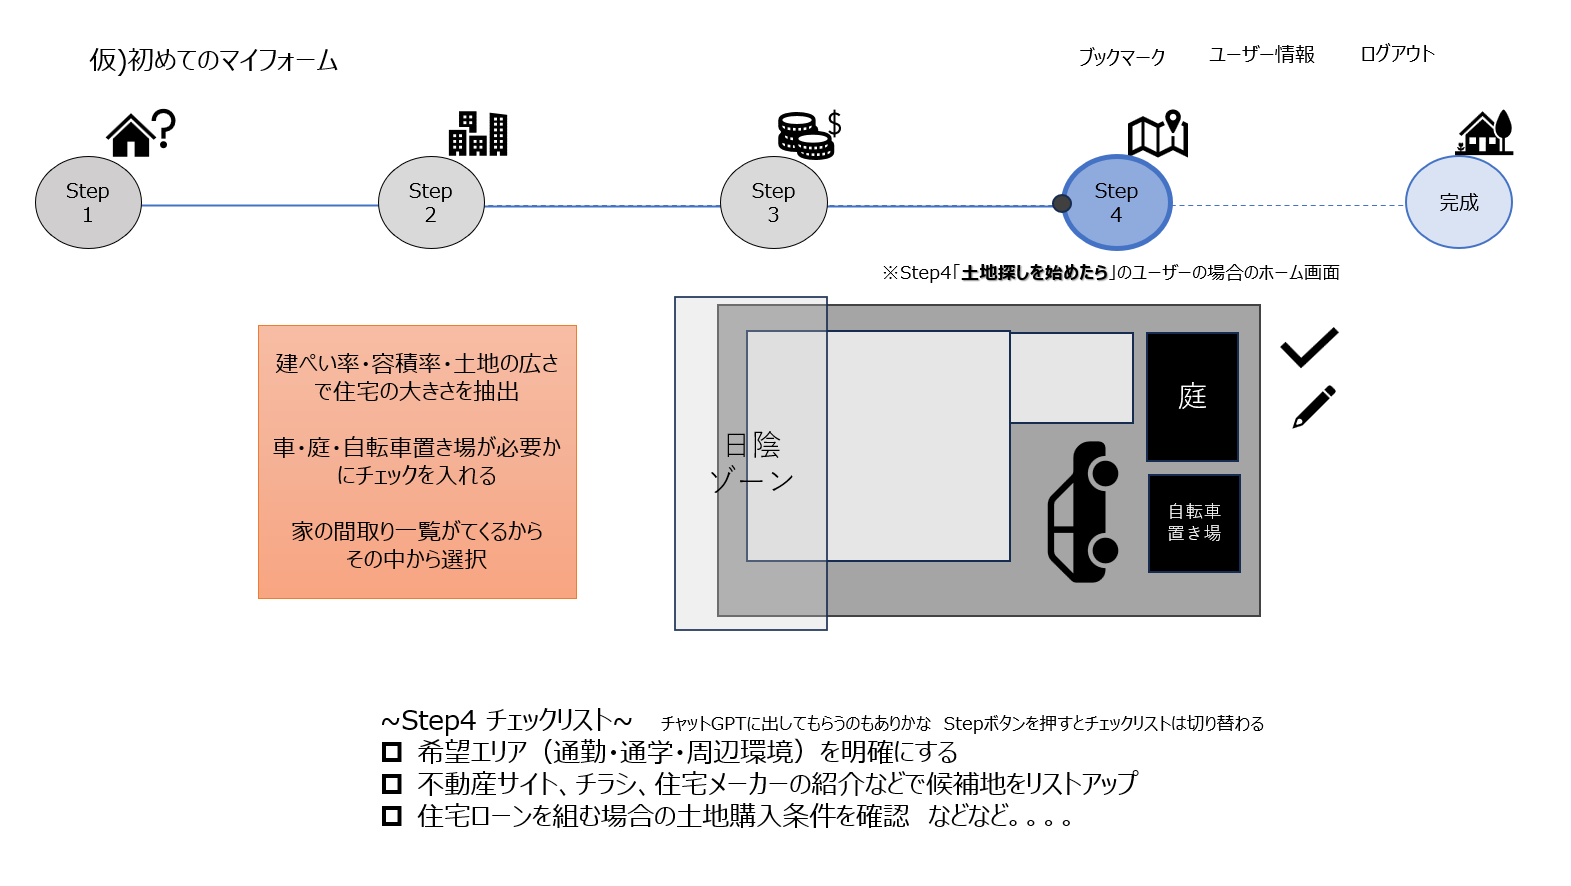
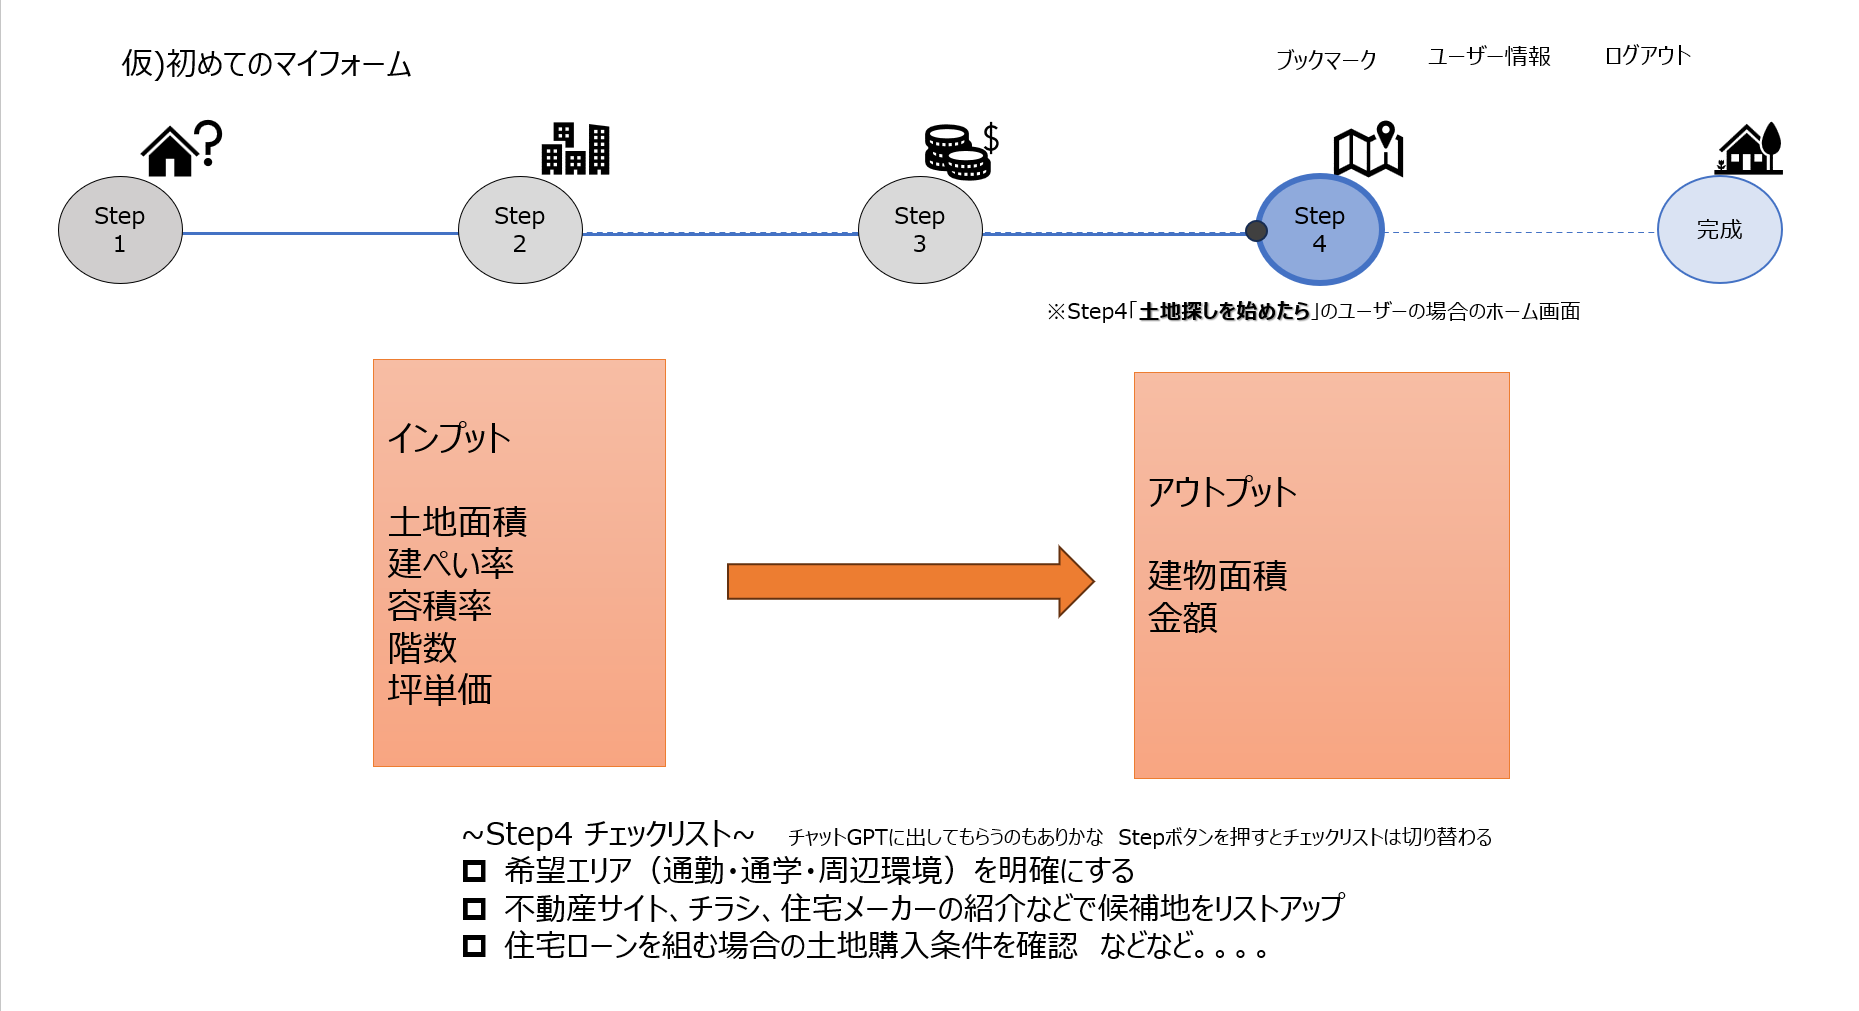
focusの説明を変更

diff --git a/docs/focus.md b/docs/focus.md
@@ -1,4 +1,5 @@
 # オリジナルプロダクトのテーマ
+
 **OneHouse.**  
 ～住宅購入を考え始めた人のためのサポートアプリ～
 
@@ -11,21 +12,21 @@
 → そんな悩みを抱えている人への、“最初の道しるべ”となるアプリです。
 
 ### コンセプト
+
 “住宅購入の第一歩”に迷っている初心者 に向けて、
 基礎知識の整理、計画のサポート、土地探しの記録や住宅メーカーの比較をまとめて行えるアプリです。  
-マイホームは「一生に一度の大きな買い物」と言われますが、実際には3回建てないと理想の家は建てられないとも言われています。
+マイホームは「一生に一度の大きな買い物」と言われますが、実際には 3 回建てないと理想の家は建てられないとも言われています。
 だからこそ、最初の一歩を正しく踏み出すことが大切です。
 このアプリでは、その“最初の一歩”を後押しし、家づくりのイメージを整理しながら住宅購入が安心して進められるようにサポートします。
 
-
 ### 想定ユーザー（対象者）
 
-- これから家を建てたいと思い始めた人  
-- 情報収集を始めたけれど、流れがよくわからない人  
+- これから家を建てたいと思い始めた人
+- 情報収集を始めたけれど、流れがよくわからない人
 - 住宅メーカーや工務店の見学を始めたばかりの人  
-→ つまり、「検討開始～土地購入まで」の 赤枠の段階 の人たちを対象にします。  
+  → つまり、「検討開始～土地購入まで」の 赤枠の段階 の人たちを対象にします。
 
-※今回限定した理由は住宅購入までとなると、各メーカーによって進め方や住宅内装の項目が異なるため。     
+※今回限定した理由は住宅購入までとなると、各メーカーによって進め方や住宅内装の項目が異なるため。  
 また建売での購入やマンション購入者は対象としていません。  
 あくまで住宅を住宅メーカーと建てることを検討している方に向けた内容となります。
 
@@ -33,48 +34,60 @@
 
 ### アプリでできること（機能イメージ）
 
-<img src="images/image-1.png" alt="" width="700">
+<img src="images/image-2.png" alt="" width="700">
 
-- ホーム画面    
- **1.「土地購入までの流れ」を初心者向けにフェーズごとにわかりやすく提示**
+| フェーズ | チェックリストの内容 | フェーズ Up 項目                         |
+| -------- | -------------------- | ---------------------------------------- |
+| Step1    | 住宅購入について知る | ☑ 住宅購入の意思が固まった               |
+| Step2    | 住宅メーカを探す     | ☑ 住宅メーカが決まった                   |
+| Step3    | 資金計画をする       | ☑ 住宅ローン・諸経費・契約金の概算が出た |
+| Step4    | 土地を購入する       | ☑ 土地を購入した                         |
+|          | 契約完了             | ☑ 住宅メーカーと本契約をした             |
+| Step5    | 住宅契約完了！       | 引き続き計画的にしていこう！             |
+
+- ホーム画面  
+  **1.「土地購入までの流れ」を初心者向けにフェーズごとにわかりやすく提示**
 
   ※あくまで一般的にこれが必要になりますよレベルフェーズが常に表示される  
-  進捗を更新するとホーム画面でも更新される  
-  細かくフェーズを決めるのではなく、申込書を出したら・契約を締結したら、などの大きな節目でフェーズ変更となる
+   進捗を更新するとホーム画面でも更新される  
+   細かくフェーズを決めるのではなく、  
+   申込書を出したら・契約を締結したら、などの大きな節目でフェーズ変更となる
 
-  **2. 土地購入までのチェックリスト**  
-  必要な準備・確認事項を見える化（例：土地探し、資金計画、住宅ローン事前審査など）   
-  →これまでのまとめサイトやアプリだと情報が古い、日々更新される内容であってほしい  
-  ※フェーズごとに分けて提示
-
-- *P2:自分だけのライフプラン表  
-  頭金・ローン・諸費用の目安をシミュレーション付きで学べる  
-  自分だけのライフプランイメージ表の作成
- <img src="images/image-4.png" alt="" width="800">
+  **2. フェーズごとのチェックリスト**  
+   必要な準備・確認事項を見える化（例：土地探し、資金計画、住宅ローン事前審査など）  
+   → これまでのまとめサイトやアプリだと情報が古い、日々更新される内容であってほしい  
+   ※フェーズごとに分けて提示
 
 - P1:メーカー訪問記録  
-  住宅展示場や工務店訪問の見積もり・写真・メモの記録
+  住宅展示場や工務店訪問の見積もり・メモの記録
   <img src="images/image-3.png" alt="" width="800">
-  
-- *P3：土地と家のイメージボード (土地訪問時の間取りシミレーション)  
-  訪問した土地の形・広さを入力して、建ぺい率と容積率・駐車場や庭を入れると家の形を提案してくれる
-<img src="images/image-5.png" alt="" width="800">
 
-> [!TIP]
-<span style="color:red;">**機能 優先度管理**</span>
+- \*P2:自分だけの住宅ローンシミレーション  
+   頭金・ローン・諸費用の目安をシミュレーション付きで学べる  
+   自分だけのライフプランイメージ表の作成
+  <img src="images/image-4.png" alt="" width="800">
 
-優先度（P0～P3）
+- \*P3：土地と家のイメージボード (土地訪問時の間取りシミレーション)  
+   訪問した土地面積を入力して、  
+   建ぺい率と容積率・階数、坪単価を入れると建物面積と金額を教えてくれる
+  <img src="images/image-5.png" alt="" width="800">
+
+> [!TIP] > <span style="color:red;">**機能 優先度管理**</span>
+
+優先度（P0 ～ P3）
+
 - P0: 特に重大な問題　・・・・フェーズ・チェックリスト
 - P1: 優先度の高い問題　・・・・メーカー訪問記録
-  
-※ 一旦はP0.P1の機能を中心に作成いたします。  
-P2.P3につてはAPIやURLへの誘導、ほかアプリ紹介などを行うなどして情報提供という形にする。総合的に一元管理するアプリにしたいという軸はぶれたくないため、アプリとしての見せ方を模索していく必要あり。
-- P2: 優先度中　・・・・自分だけのライフプラン表
-- P3: 優先度低　・・・・土地と家のイメージボード
 
+※ 一旦は P0.P1 の機能を中心に作成いたします。  
+P2.P3 につては API や URL への誘導、ほかアプリ紹介などを行うなどして情報提供という形にする。  
+総合的に一元管理するアプリにしたいという軸はぶれたくないため、  
+アプリとしての見せ方を模索していく必要あり。
+
+- P2: 優先度中　・・・・自分だけの住宅ローンシミレーション
+- P3: 優先度低　・・・・土地面積と坪単価
 
 https://clickup.com/ja/blog/192214/p1-p2-p3-p4-priority
-
 
 ## エレベーターピッチ形式でのテーマ説明
 
@@ -85,7 +98,7 @@ https://clickup.com/ja/blog/192214/p1-p2-p3-p4-priority
 
 これは 「住宅ローンや頭金の目安が分からない、
 展示場訪問の記録が整理できない、家づくりのイメージがまとまらない、
-この土地に建った家のイメージができない といった課題を解決する」 
+この土地に建った家のイメージができない といった課題を解決する」
 ことができ、
 「間取りアプリや住宅ローン単体のアプリ」 とは違って、
 「土地購入までの流れを段階的に理解でき、
@@ -94,32 +107,35 @@ https://clickup.com/ja/blog/192214/p1-p2-p3-p4-priority
 ```
 
 ## 概要
-### WHO/WHAT：誰のどんな課題を解決するのか？  
-新築一戸建てを検討し始めた人が直面する、  
-- 情報の整理不足  
-- 専門知識の難しさ  
+
+### WHO/WHAT：誰のどんな課題を解決するのか？
+
+新築一戸建てを検討し始めた人が直面する、
+
+- 情報の整理不足
+- 専門知識の難しさ
 - 複数メーカーや土地の比較検討の迷い  
-といった課題を解決し、安心して自分たちに合った家づくりを進められるようサポートする。
+  といった課題を解決し、安心して自分たちに合った家づくりを進められるようサポートする。
 
-### WHY：なぜそれを解決したいのか？  
-  私は住宅購入の過程で、ローン・土地探し・メーカー比較などに膨大な時間と労力を費やし、情報が分散していることに大きな不便さと不安を感じました。本来「家を建てる」という一つの目的なのに、銀行・保険会社・不動産・住宅メーカーと窓口が分かれているため、全体像を把握するのが難しく、納得のいく判断をするのが困難でした。だからこそ、同じ悩みを抱える人が安心して家づくりを進められるよう、情報を整理し一元管理できる仕組みを提供したいと思いました。
+### WHY：なぜそれを解決したいのか？
 
-  また、過去に栄養士として厨房業務に携わる中でも、膨大な作業や確認項目が分散していることが原因で、業務効率や安全性に課題を感じていました。その経験から、「利用者が抱える悩みを整理・一元化し、安心して物事を進められる仕組みをつくりたい」という思いが自分の根底にあるのだと気づきました。
+私は住宅購入の過程で、ローン・土地探し・メーカー比較などに膨大な時間と労力を費やし、情報が分散していることに大きな不便さと不安を感じました。本来「家を建てる」という一つの目的なのに、銀行・保険会社・不動産・住宅メーカーと窓口が分かれているため、全体像を把握するのが難しく、納得のいく判断をするのが困難でした。だからこそ、同じ悩みを抱える人が安心して家づくりを進められるよう、情報を整理し一元管理できる仕組みを提供したいと思いました。
 
-  この軸を基に、住宅購入支援アプリというテーマでポートフォリオを制作することは、自分自身の実体験を活かしながら、他の人の課題解決に役立つシステムを形にする挑戦となります。
+また、過去に栄養士として厨房業務に携わる中でも、膨大な作業や確認項目が分散していることが原因で、業務効率や安全性に課題を感じていました。その経験から、「利用者が抱える悩みを整理・一元化し、安心して物事を進められる仕組みをつくりたい」という思いが自分の根底にあるのだと気づきました。
 
-### HOW：どうやって解決するのか？（サービス案）  
-  住宅購入を検討し始めたときからの行動フェーズで管理・保存する  
-  ※詳しくは機能イメージを参照ください。
+この軸を基に、住宅購入支援アプリというテーマでポートフォリオを制作することは、自分自身の実体験を活かしながら、他の人の課題解決に役立つシステムを形にする挑戦となります。
 
+### HOW：どうやって解決するのか？（サービス案）
+
+住宅購入を検討し始めたときからの行動フェーズで管理・保存する  
+ ※詳しくは機能イメージを参照ください。
 
 ## 必須項目をクリアしているか
-**チャックポイント**    
+
+**チャックポイント**  
 ☑ 具体的な誰かの課題を解決するものになっているか？  
-☑なぜそれを作るかに納得感があるか？  
-☑期間内でリリースし実際に使ってもらえるか？  
-☑一定の機能ボリュームがあるか？  
-☑仕事現場の課題を解決するものか？  
-☑エンジニアになりたい理由とPFのテーマにストーリー性があるか？  
-
-
+☑ なぜそれを作るかに納得感があるか？  
+☑ 期間内でリリースし実際に使ってもらえるか？  
+☑ 一定の機能ボリュームがあるか？  
+☑ 仕事現場の課題を解決するものか？  
+☑ エンジニアになりたい理由と PF のテーマにストーリー性があるか？

diff --git a/docs/lib/checklist.md b/docs/lib/checklist.md
@@ -1,0 +1,48 @@
+# チェックリストの実装
+
+| フェーズ | チェックリストの内容 | フェーズ Up 項目                         |
+| -------- | -------------------- | ---------------------------------------- |
+| Step1    | 住宅購入について知る | ☑ 住宅購入の意思が固まった               |
+| Step2    | 住宅メーカを探す     | ☑ 住宅メーカが決まった                   |
+| Step3    | 資金計画をする       | ☑ 住宅ローン・諸経費・契約金の概算が出た |
+| Step4    | 土地を購入する       | ☑ 土地を購入した                         |
+|          | 契約完了             | ☑ 住宅メーカーと本契約をした             |
+| Step5    | 住宅契約完了！       | 引き続き計画的にしていこう！             |
+
+### Step1 　まずは準備と情報収集！
+
+- 家族希望条件を整理
+- 大体の予算を知る
+- 家探しの流れを教える
+
+### Step2 　住宅メーカーへ相談に行こう！
+
+- 複数社のモデルハウスを見学
+- 構造・工法（木造・鉄骨など）の比較
+- 見積もりを取得
+- 営業担当との相性確認
+
+### Step3 　資金計画と住宅ローンについて考えよう！
+
+- 住宅ローンの種類（固定・変動・ミックス）の比較
+- 住宅ローンの事前審査
+- 諸経費の確認
+- 契約金(頭金)の準備
+
+### Step4 　安心して家を建てるための土地選びと法的チェック！
+
+- 地盤調査
+- リッチとアクセスの確認
+- 法規制の確認
+- 検討中の土地訪問
+- 土地の用途地域・建ぺい率・容積率の確認
+
+### Step5 　理想の住まいを形にする最終工程！
+
+- 間取りの確定
+- 内装の相談
+- 着工日程の調整
+- 地鎮祭
+- 上棟
+- 登記・火災保険・地震保険の加入手続き
+- 引き渡し

diff --git a/docs/database_schema.md b/docs/database_schema.md
@@ -70,9 +70,8 @@
 | marker_id   | BIGINT   | FK   |
 | feature_tag | BIGINT   | FK   |
 
-
 FOREIGN KEY (maker_id) REFERENCES makers(id),  
-FOREIGN KEY (feature_id) REFERENCES features(id)  
+FOREIGN KEY (feature_id) REFERENCES features(id)
 
 ### features
 
@@ -106,7 +105,7 @@ FOREIGN KEY (feature_id) REFERENCES features(id)
 
 ### landlogs
 
-住所　容積率 建ぺい率 土地面積 階層～ 3 階まで
+住所　容積率 建ぺい率 土地面積 階層～ 3 階まで 坪単価
 
 | カラム名   | データ型      | キー | NOT NULL |
 | ---------- | ------------- | ---- | -------- |
@@ -117,6 +116,7 @@ FOREIGN KEY (feature_id) REFERENCES features(id)
 | far        | DECIMAL(10,2) |
 | bcr        | DECIMAL(10,2) |
 | floor_id   | INT           | FK   |          |
+| range      | BIGINT        |      |
 
 ### floors
 
@@ -144,7 +144,7 @@ FOREIGN KEY (feature_id) REFERENCES features(id)
 | id       | bigint   | PK   |
 | name     | varchar  |
 
-name :  1=calendars, 2=makers, 3=landlogs, 4=memologs
+name : 1=calendars, 2=makers, 3=landlogs, 4=memologs
 
 ### bookmarks
 
@@ -157,7 +157,7 @@ name :  1=calendars, 2=makers, 3=landlogs, 4=memologs
 | bookmark_type_id | bigint   |
 | reference_id     | bigint   |
 
-reference_id  : bookmark_type_idに応じた対象テーブルのID
+reference_id : bookmark_type_id に応じた対象テーブルの ID
 
 calendar_id
 markers_id

diff --git a/README.md b/README.md
@@ -44,24 +44,22 @@ docs/
 ## UI　ライブラリなど
 全体画面
 
-- Tabler
+- Tabler または
 - dminLTE  
   https://adminlte.io/themes/v3/
 
 カレンダー
 
 - FullCalendar
-- Tui Calendar
 
 チャート
 
 - ApexCharts
 
-
-検索＆チャット(OpenAI APIで)
-
-https://chatui.io/
-
 認証
 
 - Laravel Breeze
+
+チェックリスト
+
+- 

diff --git a/docs/lib/doc.md b/docs/lib/doc.md
@@ -65,3 +65,10 @@ export default defineConfig({
 });
 
 ```
+
+## FullCalendar
+```
+npm install @fullcalendar/vue3 @fullcalendar/core @fullcalendar/daygrid 
+@fullcalendar/list @fullcalendar/time
+```
+
